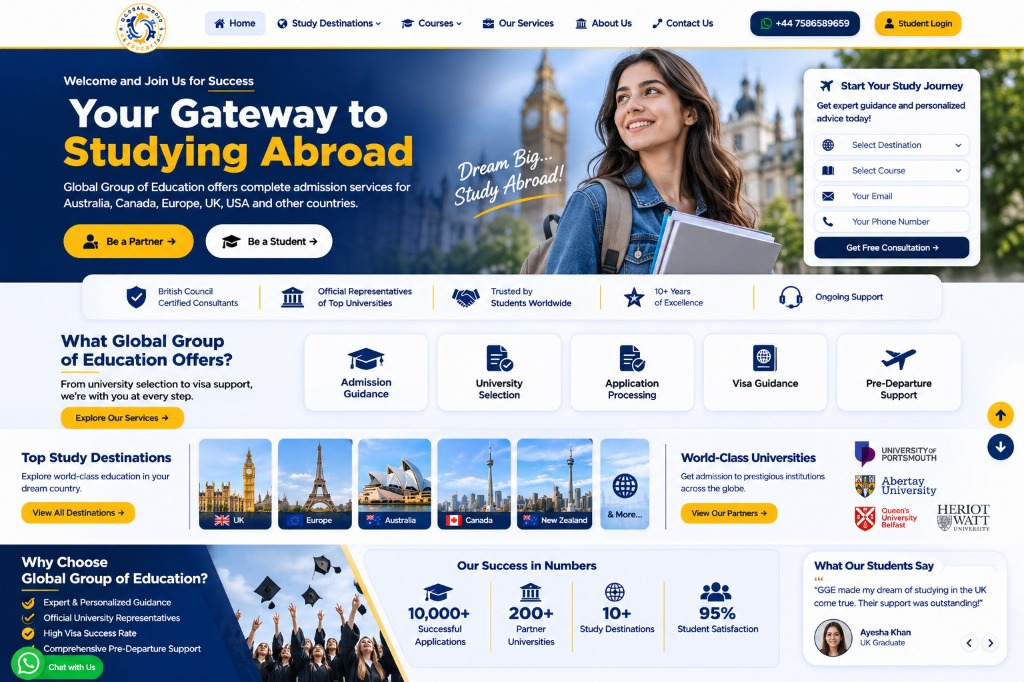
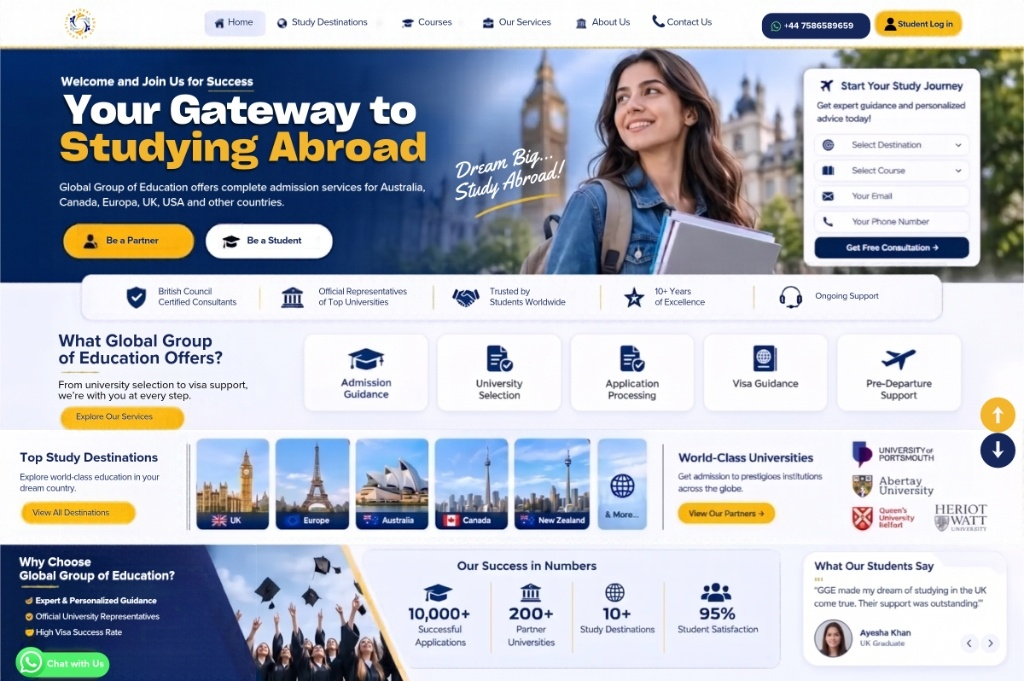
Update Global Potential card image to user upload and eliminate gap between stacking cards

diff --git a/index.html b/index.html
@@ -29,7 +29,7 @@
 <!-- Animate -->
 <link href="/assets/css/animate.css" rel="stylesheet"/>
 <!-- Custom Style -->
-<link href="/assets/css/custom.css?v=9.2" rel="stylesheet"/>
+<link href="/assets/css/custom.css?v=9.3" rel="stylesheet"/>
 <!-- HTML5 shim and Respond.js IE8 support of HTML5 elements and media queries -->
 <!--[if lt IE 9]>
         <script src="js/html5shiv.min.js"></script>
@@ -1503,7 +1503,7 @@
         </div>
         <div class="stage" aria-hidden="true">
           <div class="stage-frame">
-            <img src="assets/images/mockup/full_overview_mockup.jpg" alt="Global Student Potential" loading="lazy">
+            <img src="assets/images/mockup/global_potential_mockup.jpg?v=20261117" alt="Global Student Potential" loading="lazy">
           </div>
         </div>
       </div>

diff --git a/public/index.html b/public/index.html
@@ -29,7 +29,7 @@
 <!-- Animate -->
 <link href="/assets/css/animate.css" rel="stylesheet"/>
 <!-- Custom Style -->
-<link href="/assets/css/custom.css?v=9.2" rel="stylesheet"/>
+<link href="/assets/css/custom.css?v=9.3" rel="stylesheet"/>
 <!-- HTML5 shim and Respond.js IE8 support of HTML5 elements and media queries -->
 <!--[if lt IE 9]>
         <script src="js/html5shiv.min.js"></script>
@@ -1503,7 +1503,7 @@
         </div>
         <div class="stage" aria-hidden="true">
           <div class="stage-frame">
-            <img src="assets/images/mockup/full_overview_mockup.jpg" alt="Global Student Potential" loading="lazy">
+            <img src="assets/images/mockup/global_potential_mockup.jpg?v=20261117" alt="Global Student Potential" loading="lazy">
           </div>
         </div>
       </div>

diff --git a/public/pages/home.html b/public/pages/home.html
@@ -29,7 +29,7 @@
 <!-- Animate -->
 <link href="/assets/css/animate.css" rel="stylesheet"/>
 <!-- Custom Style -->
-<link href="/assets/css/custom.css?v=9.2" rel="stylesheet"/>
+<link href="/assets/css/custom.css?v=9.3" rel="stylesheet"/>
 <!-- HTML5 shim and Respond.js IE8 support of HTML5 elements and media queries -->
 <!--[if lt IE 9]>
         <script src="js/html5shiv.min.js"></script>
@@ -1503,7 +1503,7 @@
         </div>
         <div class="stage" aria-hidden="true">
           <div class="stage-frame">
-            <img src="assets/images/mockup/full_overview_mockup.jpg" alt="Global Student Potential" loading="lazy">
+            <img src="assets/images/mockup/global_potential_mockup.jpg?v=20261117" alt="Global Student Potential" loading="lazy">
           </div>
         </div>
       </div>

diff --git a/public/pages/index.html b/public/pages/index.html
@@ -29,7 +29,7 @@
 <!-- Animate -->
 <link href="/assets/css/animate.css" rel="stylesheet"/>
 <!-- Custom Style -->
-<link href="/assets/css/custom.css?v=9.2" rel="stylesheet"/>
+<link href="/assets/css/custom.css?v=9.3" rel="stylesheet"/>
 <!-- HTML5 shim and Respond.js IE8 support of HTML5 elements and media queries -->
 <!--[if lt IE 9]>
         <script src="js/html5shiv.min.js"></script>
@@ -1503,7 +1503,7 @@
         </div>
         <div class="stage" aria-hidden="true">
           <div class="stage-frame">
-            <img src="assets/images/mockup/full_overview_mockup.jpg" alt="Global Student Potential" loading="lazy">
+            <img src="assets/images/mockup/global_potential_mockup.jpg?v=20261117" alt="Global Student Potential" loading="lazy">
           </div>
         </div>
       </div>

diff --git a/assets/css/custom.css b/assets/css/custom.css
@@ -12349,7 +12349,7 @@ html, body {
 .card {
   position: sticky !important;
   top: calc(24px + var(--i) * 12px) !important;
-  margin-bottom: 6vh !important;
+  margin-bottom: 0 !important;
   border-radius: 28px !important;
   background: #ffffff !important;
   box-shadow: 0 20px 60px rgba(7, 21, 54, 0.09) !important;

diff --git a/public/assets/css/custom.css b/public/assets/css/custom.css
@@ -12349,7 +12349,7 @@ html, body {
 .card {
   position: sticky !important;
   top: calc(24px + var(--i) * 12px) !important;
-  margin-bottom: 6vh !important;
+  margin-bottom: 0 !important;
   border-radius: 28px !important;
   background: #ffffff !important;
   box-shadow: 0 20px 60px rgba(7, 21, 54, 0.09) !important;
